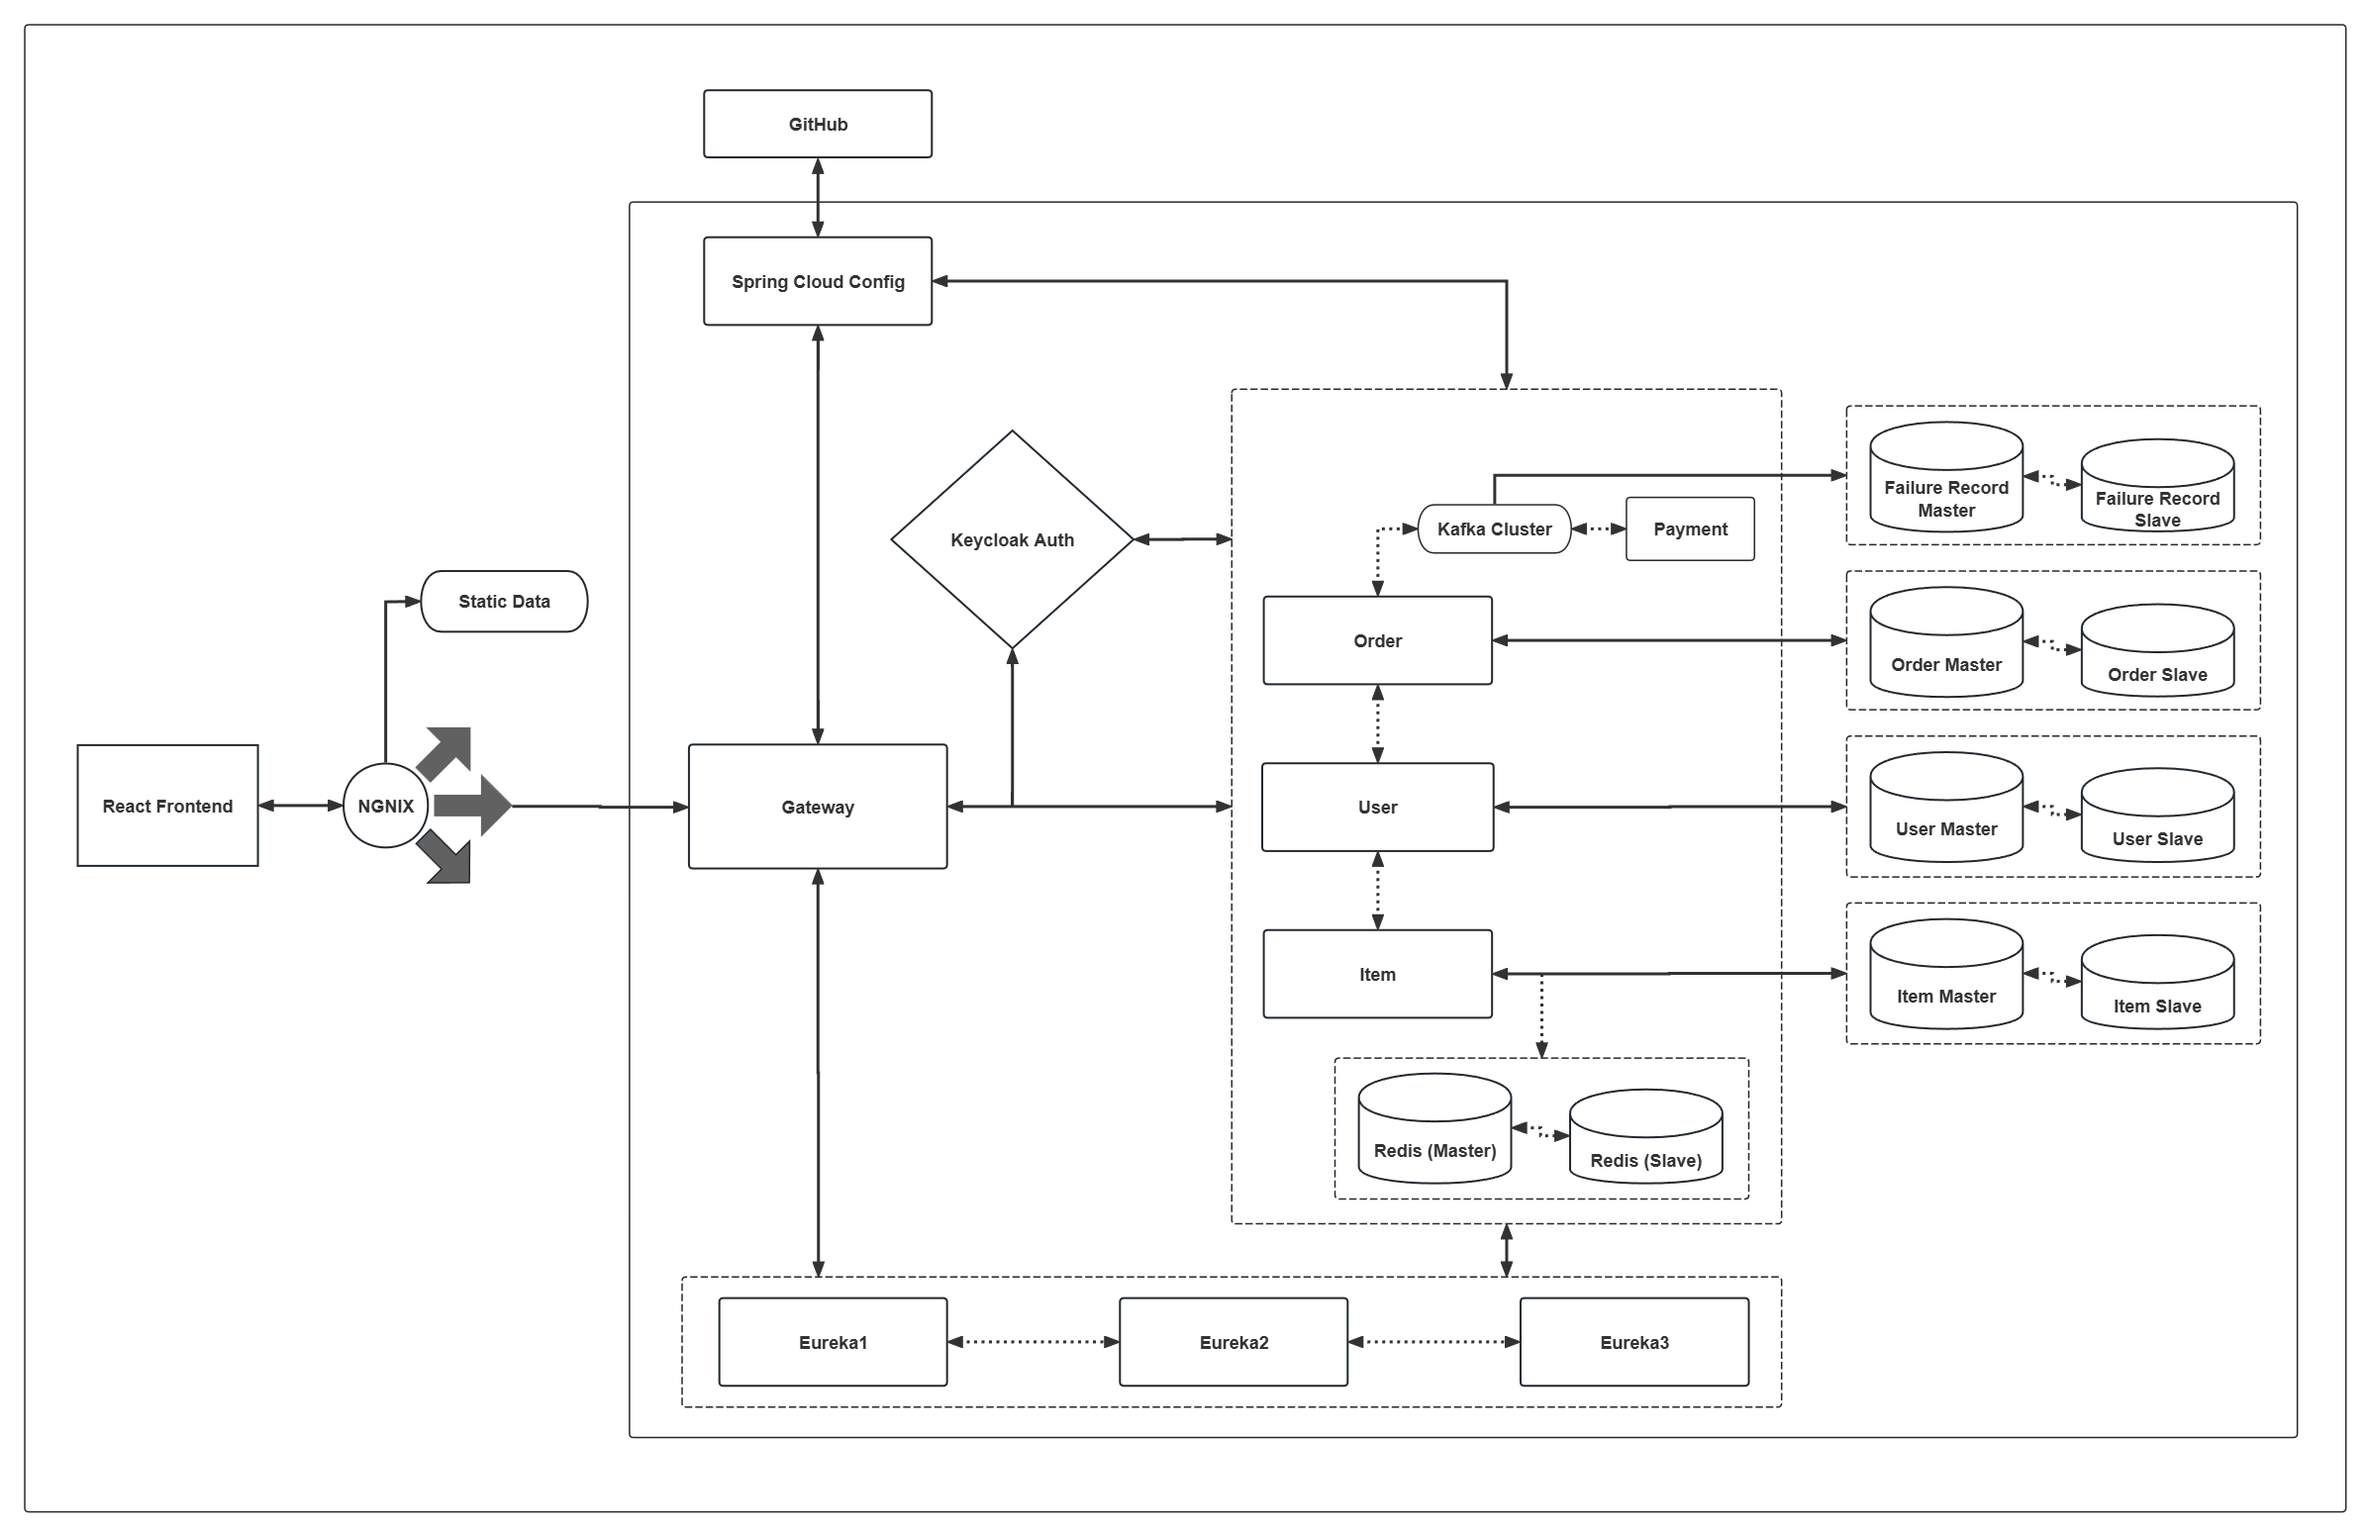
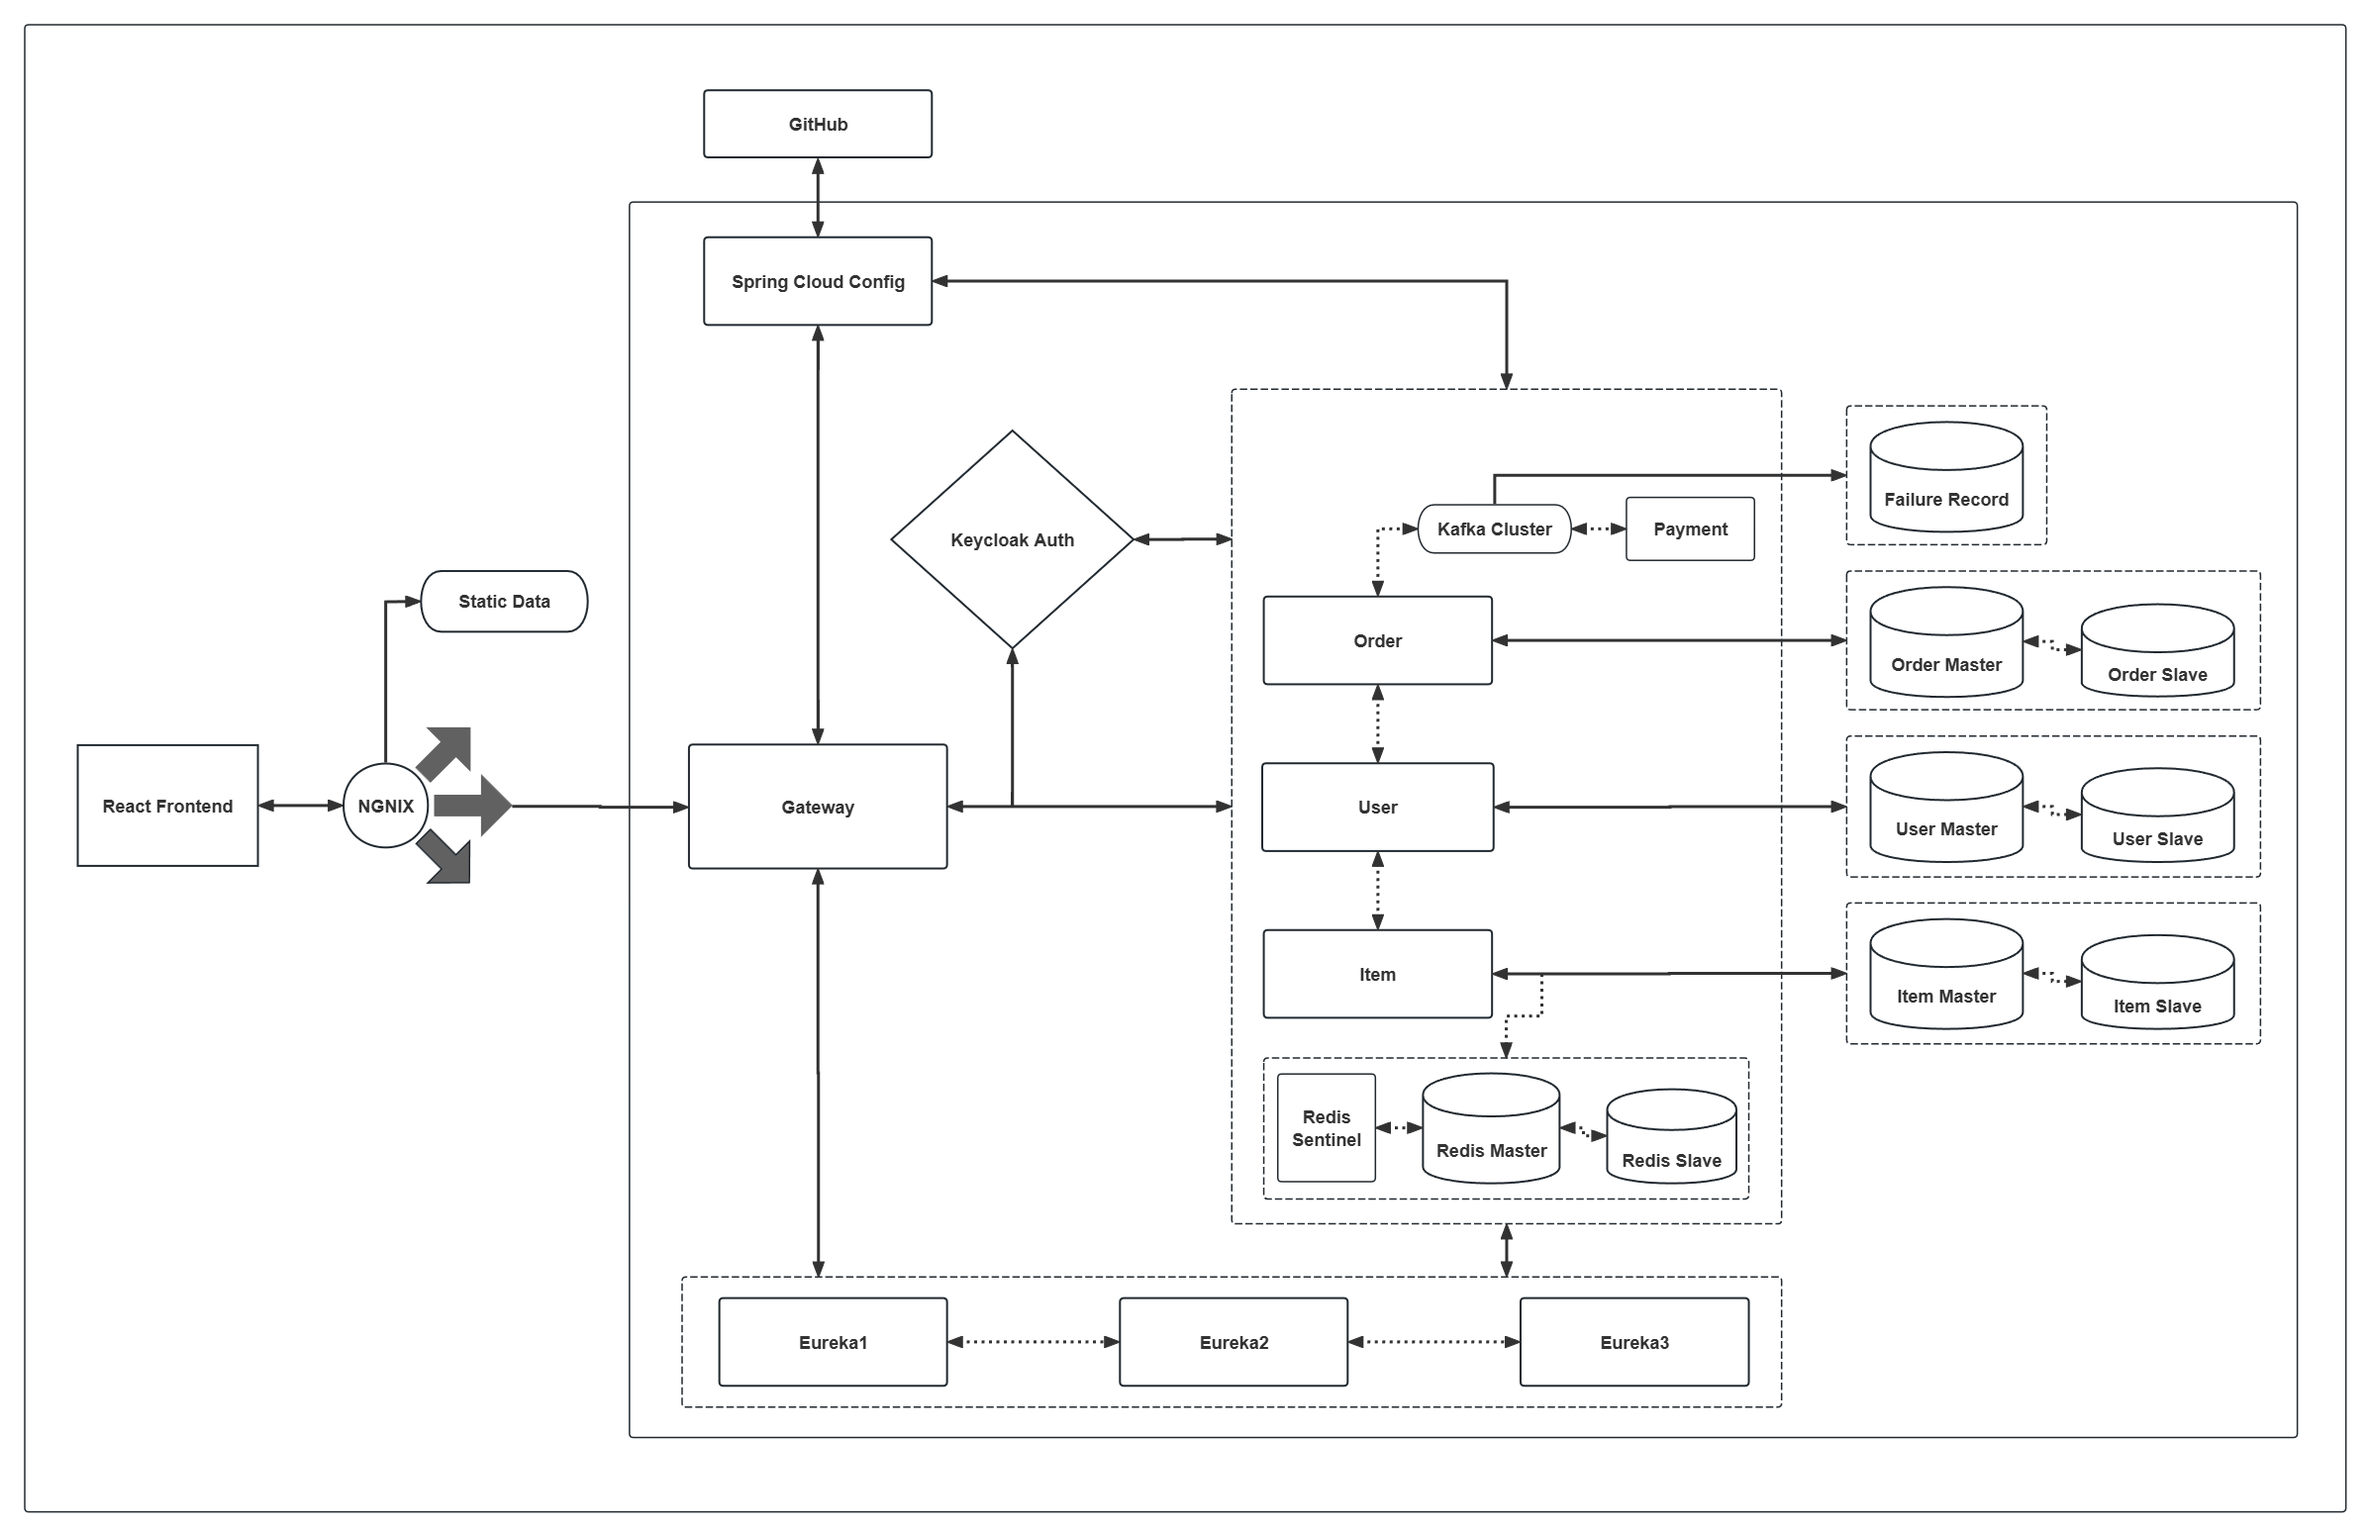
nginx

Changed region(s): [[0.5255, 0.6804, 0.7419, 0.7732], [0.8037, 0.3093, 0.9582, 0.3711]]

diff --git a/frontend/src/App/Pages/CheckoutPage/CheckoutPage.jsx b/frontend/src/App/Pages/CheckoutPage/CheckoutPage.jsx
@@ -149,7 +149,8 @@ const CheckoutPage = () => {
 
             await connectWebSocket();
             await createOrder(cart.cartId, selectedShippingMethod, selectedPaymentMethod);
-        } catch (error) {
+        } 
+        catch (error) {
             console.error('Error initializing WebSocket connection or creating order:', error);
             dispatch(showSnackbar({
                 open: true,

diff --git a/backend/Microservice/Payment/src/main/java/com/example/XianweiECommerce/consumer/PaymentConsumer.java b/backend/Microservice/Payment/src/main/java/com/example/XianweiECommerce/consumer/PaymentConsumer.java
@@ -3,18 +3,15 @@ package com.example.XianweiECommerce.consumer;
 import com.example.XianweiECommerce.pojoClass.PaymentRequest;
 import com.example.XianweiECommerce.pojoClass.PaymentResult;
 import com.example.XianweiECommerce.service.PaymentService;
+import com.example.XianweiECommerce.service.UnrecoverableMessageService;
 import com.fasterxml.jackson.core.JsonProcessingException;
 import com.fasterxml.jackson.databind.ObjectMapper;
 import lombok.extern.slf4j.Slf4j;
 import org.apache.kafka.clients.consumer.ConsumerRecord;
 import org.springframework.beans.factory.annotation.Autowired;
-import org.springframework.context.annotation.Bean;
 import org.springframework.kafka.annotation.KafkaListener;
 import org.springframework.kafka.core.KafkaTemplate;
 import org.springframework.kafka.support.Acknowledgment;
-import org.springframework.retry.backoff.ExponentialBackOffPolicy;
-import org.springframework.retry.policy.SimpleRetryPolicy;
-import org.springframework.retry.support.RetryTemplate;
 import org.springframework.stereotype.Service;
 
 import java.util.concurrent.ExecutionException;
@@ -32,42 +29,73 @@ public class PaymentConsumer {
     @Autowired
     private ObjectMapper objectMapper;
 
+    @Autowired
+    private UnrecoverableMessageService unrecoverableMessageService;
+
     @KafkaListener(topics = "payEvent", groupId = "payment-group", containerFactory = "kafkaListenerContainerFactory")
     public void consume(ConsumerRecord<String, String> record, Acknowledgment acknowledgment) {
+        log.info("Received payment result message: {}", record.value());
         try {
             PaymentRequest paymentRequest = objectMapper.readValue(record.value(), PaymentRequest.class);
+            log.info("Deserialized payment request: {}", paymentRequest);
+
+            if (!isValidPaymentRequest(paymentRequest)) {
+                log.error("Invalid payment request: {}", record.value());
+                saveUnrecoverableMessage(record.topic(), record.value(), "Invalid payment request");
+                acknowledgment.acknowledge();
+                return;
+            }
+
             boolean paymentSuccessful = paymentService.processPayment(paymentRequest.getTotalAmount());
+            log.info("Processed payment for order ID: {} with result: {}", paymentRequest.getOrderId(), paymentSuccessful);
+
             PaymentResult paymentResult = new PaymentResult(paymentRequest.getOrderId(), paymentSuccessful, paymentRequest.getCartId(), paymentRequest.getToken());
             String paymentResultJson = objectMapper.writeValueAsString(paymentResult);
-            sendWithRetry("paymentResultTopic", paymentResultJson);
-            acknowledgment.acknowledge();
-            log.info("Payment result sent to Kafka for order ID: " + paymentRequest.getOrderId() + ", success: " + paymentSuccessful);
-        }
-        catch (JsonProcessingException e) {
+            log.info("Serialized payment result: {}", paymentResultJson);
+
+            sendWithRetry("paymentResultTopic", paymentResultJson, acknowledgment);
+            log.info("Payment result sent to Kafka for order ID: {}, success: {}", paymentRequest.getOrderId(), paymentSuccessful);
+        } catch (JsonProcessingException e) {
             log.error("Error processing payment request or serializing payment result", e);
+            saveUnrecoverableMessage(record.topic(), record.value(), e.getMessage());
+            acknowledgment.acknowledge();
         }
     }
 
-    private void sendWithRetry(String topic, String message) {
+    private boolean isValidPaymentRequest(PaymentRequest paymentRequest) {
+        return paymentRequest.getOrderId() != null &&
+                paymentRequest.getTotalAmount() > 0 &&
+                paymentRequest.getCartId() != null &&
+                paymentRequest.getToken() != null && !paymentRequest.getToken().isEmpty();
+    }
+
+    private void sendWithRetry(String topic, String message, Acknowledgment acknowledgment) {
         int retryCount = 0;
         int maxRetries = 5;
         while (retryCount < maxRetries) {
             try {
+                log.info("Attempting to send message to topic: {}, attempt: {}", topic, retryCount + 1);
                 kafkaTemplate.send(topic, message).get();
+                acknowledgment.acknowledge();
+                log.info("Message sent successfully to topic: {}", topic);
                 return;
-            }
-            catch (InterruptedException | ExecutionException e) {
+            } catch (InterruptedException | ExecutionException e) {
                 retryCount++;
-                log.error("Error sending payment result to Kafka, attempt: " + retryCount, e);
+                log.error("Error sending payment result to Kafka, attempt: {}", retryCount, e);
                 try {
                     Thread.sleep(1000 * retryCount);
-                }
-                catch (InterruptedException interruptedException) {
+                } catch (InterruptedException interruptedException) {
                     Thread.currentThread().interrupt();
                 }
             }
         }
-        log.error("Failed to send payment result to Kafka after " + maxRetries + " attempts");
+        log.error("Failed to send payment result to Kafka after {} attempts. Saving to MySQL for manual inspection.", maxRetries);
+        saveUnrecoverableMessage(topic, message, "Max retry attempts reached");
+    }
+
+    private void saveUnrecoverableMessage(String topic, String message, String error) {
+        log.info("Saving unrecoverable message to database. Topic: {}, Message: {}, Error: {}", topic, message, error);
+        unrecoverableMessageService.saveUnrecoverableMessage(topic, message, error);
     }
 }
 

diff --git a/backend/Microservice/Payment/src/main/java/com/example/XianweiECommerce/service/UnrecoverableMessageService.java b/backend/Microservice/Payment/src/main/java/com/example/XianweiECommerce/service/UnrecoverableMessageService.java
@@ -1,0 +1,21 @@
+package com.example.XianweiECommerce.service;
+
+import com.example.XianweiECommerce.model.FailedMessage;
+import com.example.XianweiECommerce.repository.FailedMessageRepository;
+import org.springframework.beans.factory.annotation.Autowired;
+import org.springframework.stereotype.Service;
+
+@Service
+public class UnrecoverableMessageService {
+
+    @Autowired
+    private FailedMessageRepository failedMessageRepository;
+
+    public void saveUnrecoverableMessage(String topic, String message, String error) {
+        FailedMessage failedMessage = new FailedMessage();
+        failedMessage.setTopic(topic);
+        failedMessage.setMessage(message);
+        failedMessage.setError(error);
+        failedMessageRepository.save(failedMessage);
+    }
+}

diff --git a/backend/Microservice/Payment/src/main/java/com/example/XianweiECommerce/model/FailedMessage.java b/backend/Microservice/Payment/src/main/java/com/example/XianweiECommerce/model/FailedMessage.java
@@ -1,0 +1,25 @@
+package com.example.XianweiECommerce.model;
+
+import jakarta.persistence.Entity;
+import jakarta.persistence.GeneratedValue;
+import jakarta.persistence.GenerationType;
+import jakarta.persistence.Id;
+import lombok.Data;
+
+import java.time.LocalDateTime;
+
+@Entity
+@Data
+public class FailedMessage {
+
+    @Id
+    @GeneratedValue(strategy = GenerationType.IDENTITY)
+    private Long id;
+
+    private String topic;
+    private String message;
+    private String error;
+    private LocalDateTime createdAt = LocalDateTime.now();
+
+}
+

diff --git a/backend/Microservice/Payment/src/main/java/com/example/XianweiECommerce/PaymentApplication.java b/backend/Microservice/Payment/src/main/java/com/example/XianweiECommerce/PaymentApplication.java
@@ -2,11 +2,9 @@ package com.example.XianweiECommerce;
 
 import org.springframework.boot.SpringApplication;
 import org.springframework.boot.autoconfigure.SpringBootApplication;
-import org.springframework.data.jpa.repository.config.EnableJpaAuditing;
 
 
 @SpringBootApplication()
-@EnableJpaAuditing(auditorAwareRef = "auditAwareImpl")
 public class PaymentApplication {
 
 	public static void main(String[] args) {

diff --git a/backend/Microservice/Payment/src/main/java/com/example/XianweiECommerce/repository/FailedMessageRepository.java b/backend/Microservice/Payment/src/main/java/com/example/XianweiECommerce/repository/FailedMessageRepository.java
@@ -1,0 +1,7 @@
+package com.example.XianweiECommerce.repository;
+
+import com.example.XianweiECommerce.model.FailedMessage;
+import org.springframework.data.jpa.repository.JpaRepository;
+
+public interface FailedMessageRepository extends JpaRepository<FailedMessage, Long> {
+}
